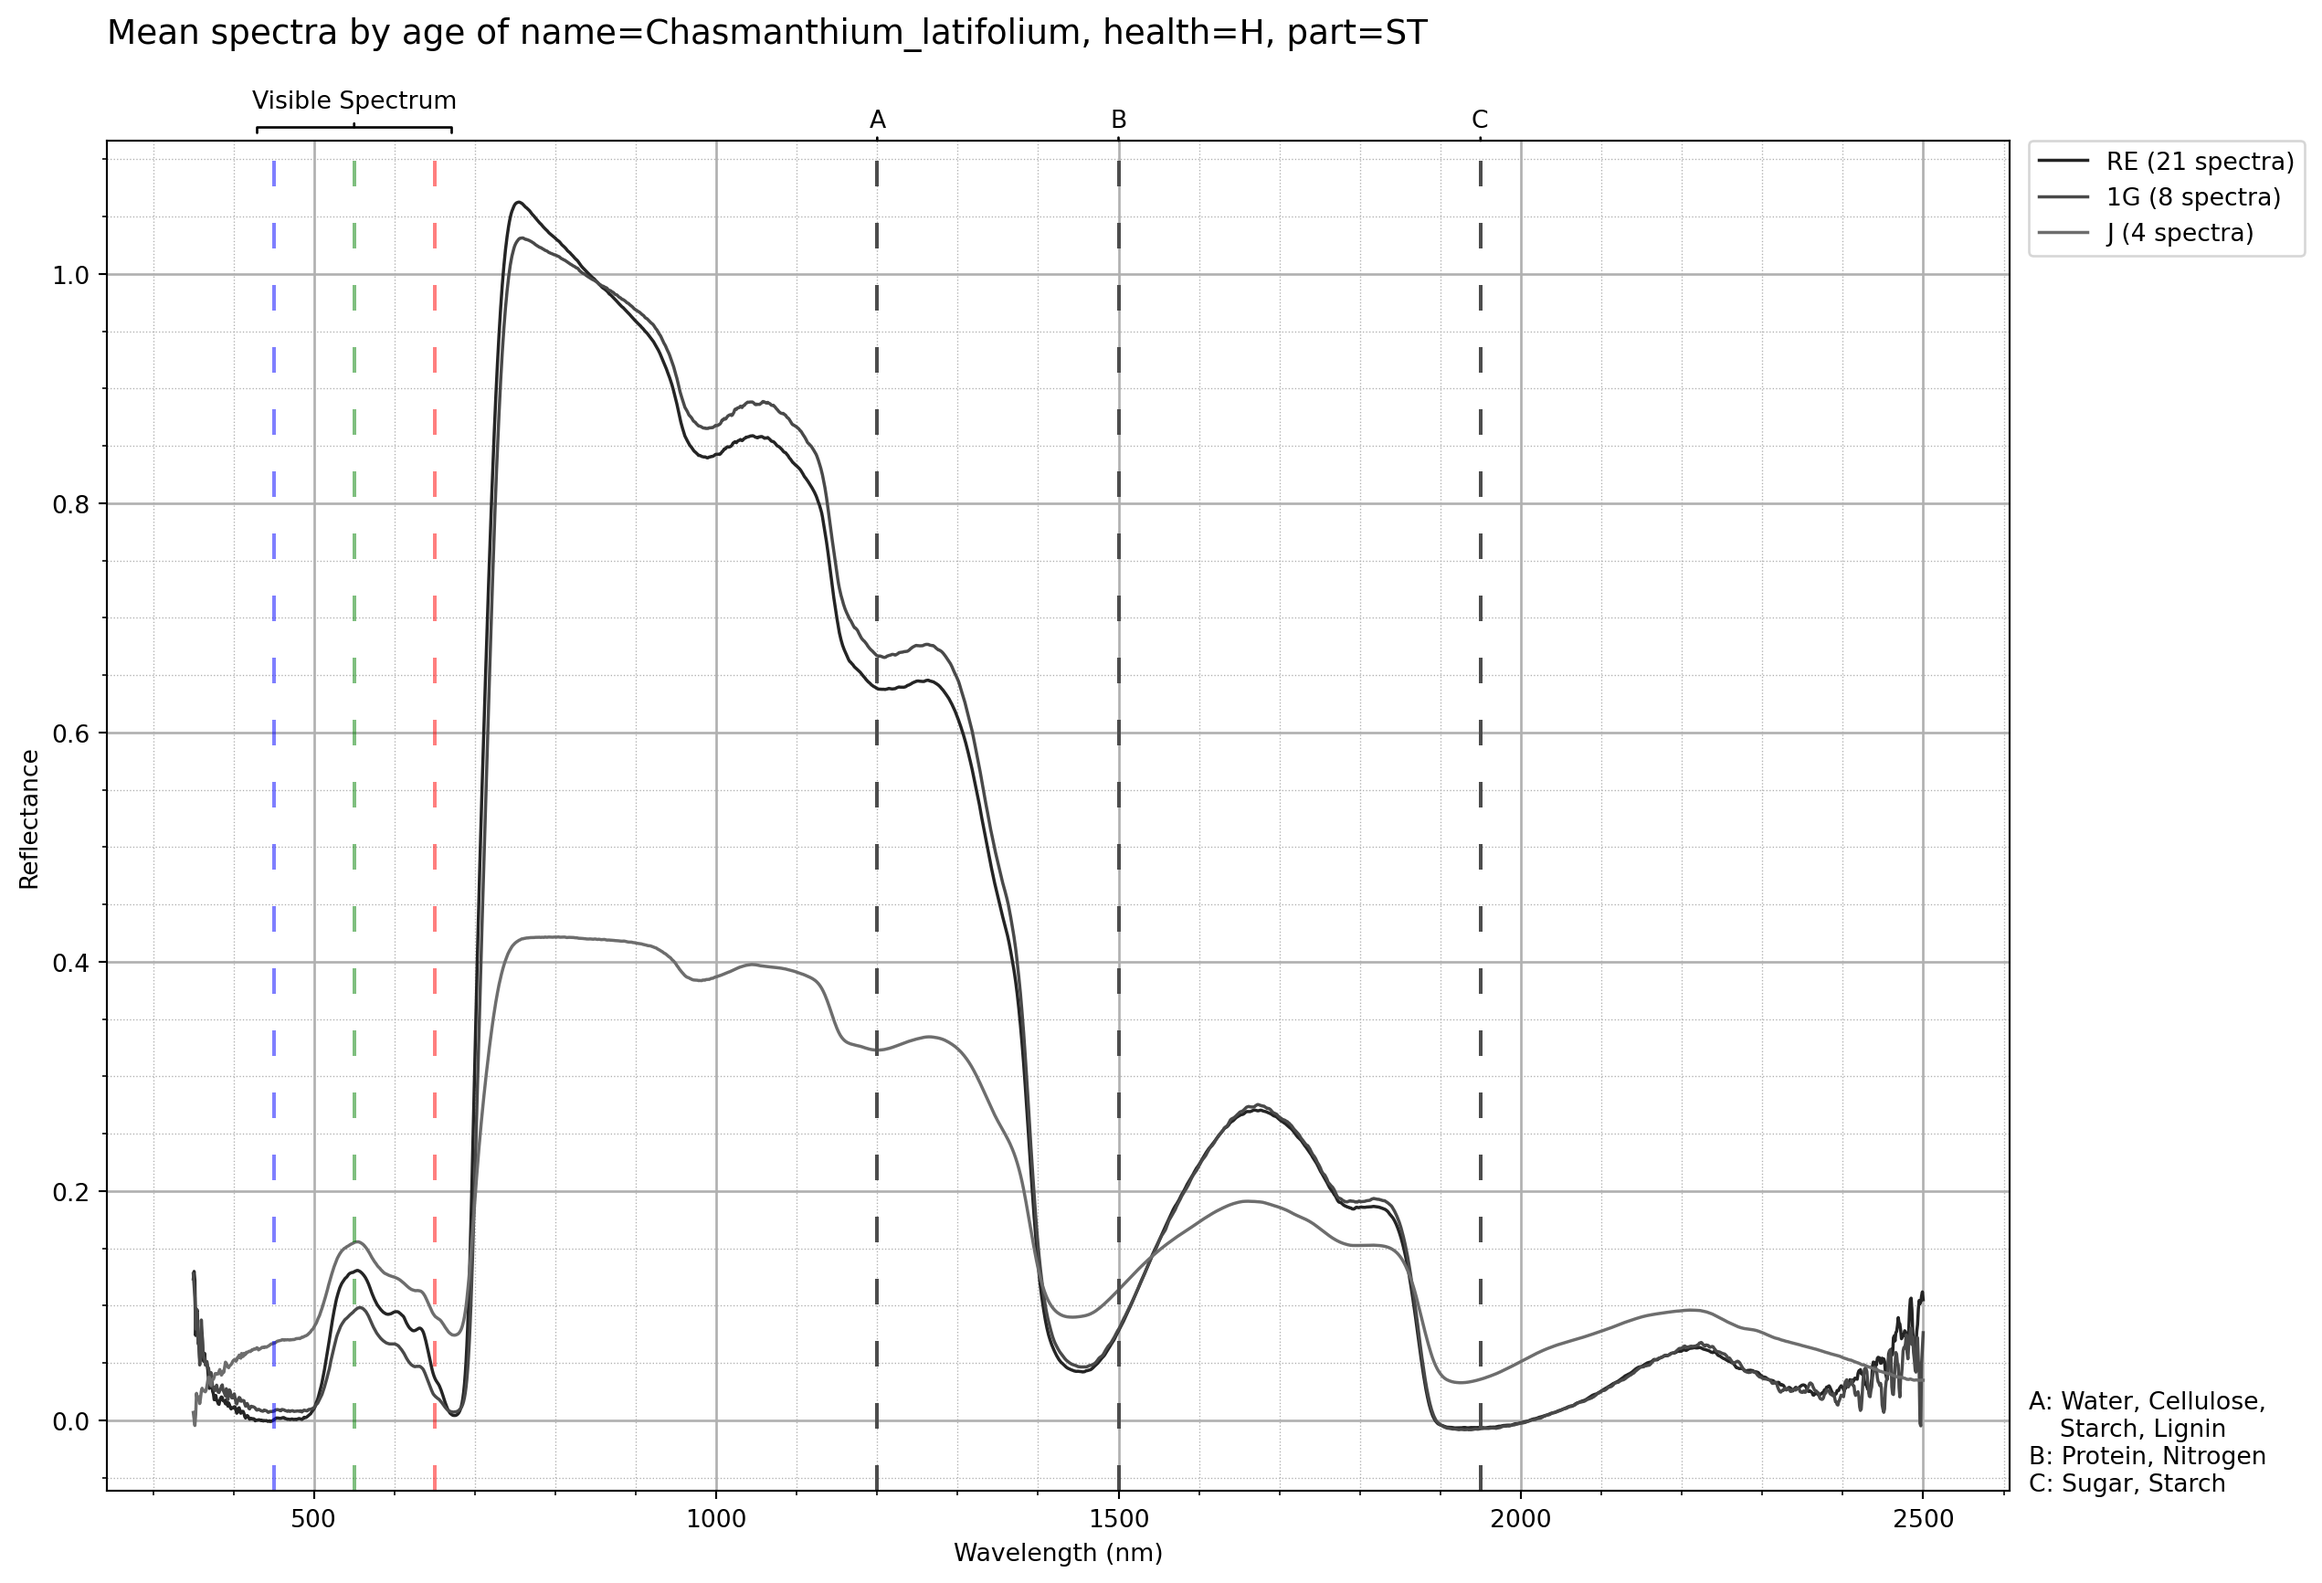
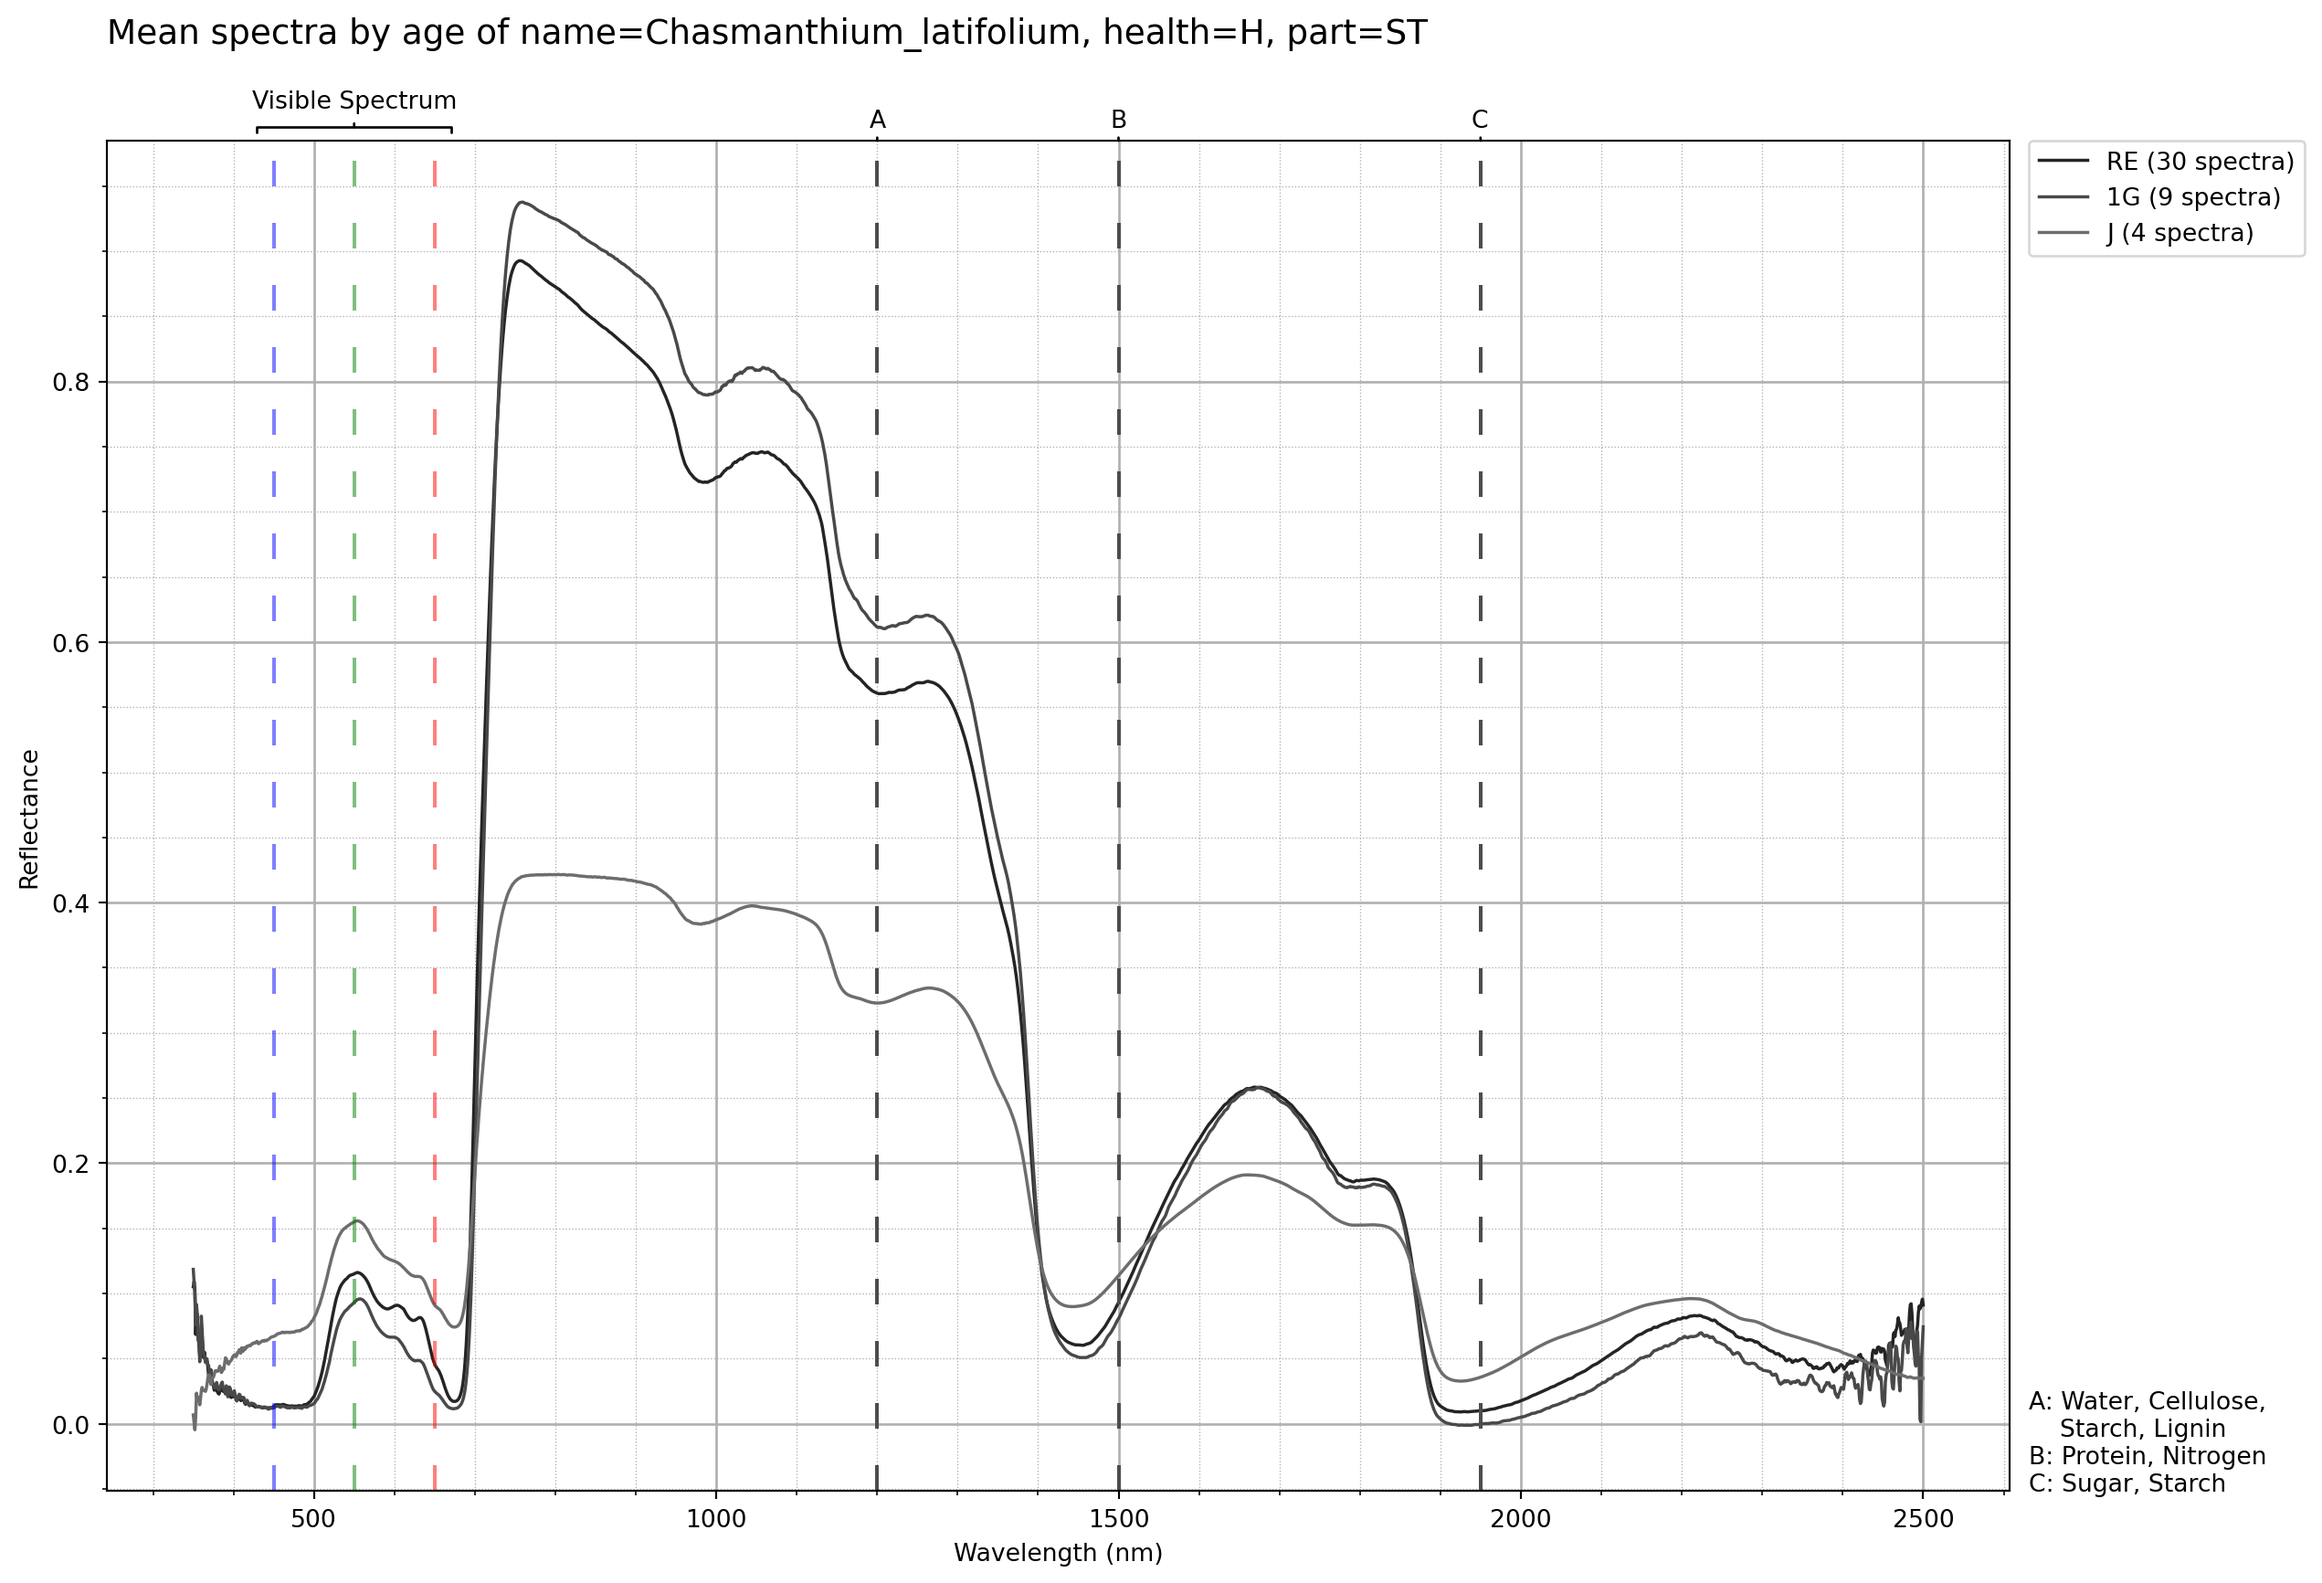
Built site for gh-pages

diff --git a/reports/Report1.html b/reports/Report1.html
@@ -152,7 +152,7 @@ ul.task-list li input[type="checkbox"] {
 
 <section id="spectral-library" class="level2 page-columns page-full">
 <h2 class="anchored" data-anchor-id="spectral-library">Spectral Library</h2>
-<p>Number of Spectra: 3158</p>
+<p>Number of Spectra: 3459</p>
 <div id="cell-table1" class="cell page-columns page-full" data-execution_count="9">
 <div id="table1" class="cell-output cell-output-display column-page-inset-right" data-execution_count="9">
 <div>
@@ -193,23 +193,23 @@ ul.task-list li input[type="checkbox"] {
 <tbody>
 <tr class="odd">
 <td data-quarto-table-cell-role="th">Ammophila_breviligulata</td>
-<td>254</td>
+<td>287</td>
 <td>0</td>
 <td>0</td>
-<td>202</td>
+<td>210</td>
 <td>0</td>
-<td>22</td>
+<td>35</td>
 <td>0</td>
 <td>0</td>
-<td>0</td>
+<td>12</td>
 <td>5</td>
 <td>3</td>
-<td>185</td>
+<td>218</td>
 <td>61</td>
 <td>0</td>
 <td>0</td>
 <td>28</td>
-<td>71</td>
+<td>104</td>
 <td>0</td>
 <td>4</td>
 <td>0</td>
@@ -280,23 +280,23 @@ ul.task-list li input[type="checkbox"] {
 </tr>
 <tr class="even">
 <td data-quarto-table-cell-role="th">Chasmanthium_latifolium</td>
-<td>285</td>
+<td>343</td>
 <td>0</td>
 <td>6</td>
-<td>157</td>
+<td>170</td>
 <td>0</td>
-<td>44</td>
+<td>79</td>
 <td>31</td>
 <td>0</td>
-<td>33</td>
-<td>132</td>
+<td>43</td>
+<td>160</td>
 <td>11</td>
 <td>48</td>
 <td>4</td>
 <td>13</td>
-<td>59</td>
+<td>89</td>
 <td>30</td>
-<td>212</td>
+<td>270</td>
 <td>0</td>
 <td>0</td>
 <td>0</td>
@@ -309,23 +309,23 @@ ul.task-list li input[type="checkbox"] {
 </tr>
 <tr class="odd">
 <td data-quarto-table-cell-role="th">Ilex_vomitoria</td>
-<td>123</td>
+<td>170</td>
 <td>0</td>
 <td>0</td>
-<td>47</td>
-<td>16</td>
-<td>47</td>
+<td>58</td>
+<td>29</td>
+<td>60</td>
 <td>0</td>
 <td>0</td>
-<td>13</td>
+<td>23</td>
 <td>0</td>
 <td>0</td>
-<td>65</td>
+<td>112</td>
 <td>7</td>
 <td>6</td>
 <td>3</td>
 <td>7</td>
-<td>74</td>
+<td>121</td>
 <td>0</td>
 <td>0</td>
 <td>0</td>
@@ -396,23 +396,23 @@ ul.task-list li input[type="checkbox"] {
 </tr>
 <tr class="even">
 <td data-quarto-table-cell-role="th">Panicum_amarum</td>
-<td>386</td>
-<td>18</td>
+<td>452</td>
+<td>26</td>
 <td>0</td>
-<td>278</td>
+<td>288</td>
 <td>0</td>
-<td>48</td>
+<td>82</td>
 <td>11</td>
 <td>0</td>
-<td>27</td>
-<td>46</td>
+<td>41</td>
+<td>57</td>
 <td>0</td>
-<td>251</td>
+<td>306</td>
 <td>24</td>
 <td>54</td>
 <td>11</td>
 <td>31</td>
-<td>225</td>
+<td>291</td>
 <td>0</td>
 <td>0</td>
 <td>0</td>
@@ -420,57 +420,57 @@ ul.task-list li input[type="checkbox"] {
 <td>62</td>
 <td>64</td>
 <td>20</td>
-<td>50</td>
+<td>70</td>
 <td>17</td>
 </tr>
 <tr class="odd">
 <td data-quarto-table-cell-role="th">Panicum_virgatum</td>
-<td>420</td>
-<td>93</td>
+<td>464</td>
+<td>105</td>
 <td>0</td>
 <td>244</td>
 <td>0</td>
-<td>29</td>
-<td>38</td>
+<td>45</td>
+<td>46</td>
 <td>9</td>
-<td>3</td>
+<td>11</td>
 <td>16</td>
 <td>3</td>
-<td>326</td>
+<td>370</td>
 <td>15</td>
 <td>32</td>
 <td>7</td>
 <td>41</td>
-<td>165</td>
+<td>209</td>
 <td>0</td>
 <td>0</td>
 <td>0</td>
 <td>0</td>
 <td>122</td>
 <td>59</td>
-<td>0</td>
-<td>190</td>
+<td>12</td>
+<td>222</td>
 <td>0</td>
 </tr>
 <tr class="even">
 <td data-quarto-table-cell-role="th">Robinia_hispida</td>
-<td>184</td>
+<td>231</td>
 <td>0</td>
 <td>0</td>
-<td>75</td>
-<td>32</td>
-<td>33</td>
-<td>0</td>
-<td>0</td>
+<td>86</td>
+<td>43</td>
 <td>44</td>
+<td>0</td>
+<td>0</td>
+<td>58</td>
 <td>113</td>
 <td>0</td>
-<td>53</td>
+<td>100</td>
 <td>18</td>
 <td>0</td>
 <td>0</td>
 <td>13</td>
-<td>171</td>
+<td>218</td>
 <td>0</td>
 <td>0</td>
 <td>0</td>
@@ -483,12 +483,12 @@ ul.task-list li input[type="checkbox"] {
 </tr>
 <tr class="odd">
 <td data-quarto-table-cell-role="th">Rosa_rugosa</td>
-<td>134</td>
+<td>140</td>
 <td>0</td>
 <td>0</td>
 <td>113</td>
 <td>12</td>
-<td>0</td>
+<td>6</td>
 <td>0</td>
 <td>0</td>
 <td>9</td>
@@ -496,10 +496,10 @@ ul.task-list li input[type="checkbox"] {
 <td>0</td>
 <td>47</td>
 <td>3</td>
-<td>0</td>
+<td>6</td>
 <td>0</td>
 <td>3</td>
-<td>82</td>
+<td>88</td>
 <td>8</td>
 <td>0</td>
 <td>0</td>
@@ -619,7 +619,7 @@ ul.task-list li input[type="checkbox"] {
 <div class="cell-output cell-output-display page-columns page-full">
 <div class="page-columns page-full">
 <figure class="figure page-columns page-full">
-<p class="page-columns page-full"><img src="Report1_files/figure-html/cell-16-output-2.png" width="1250" height="867" class="figure-img column-page"></p>
+<p class="page-columns page-full"><img src="Report1_files/figure-html/cell-16-output-2.png" width="1258" height="867" class="figure-img column-page"></p>
 </figure>
 </div>
 </div>
@@ -633,7 +633,7 @@ ul.task-list li input[type="checkbox"] {
 <div class="cell-output cell-output-display page-columns page-full">
 <div class="page-columns page-full">
 <figure class="figure page-columns page-full">
-<p class="page-columns page-full"><img src="Report1_files/figure-html/cell-16-output-4.png" width="1265" height="867" class="figure-img column-page"></p>
+<p class="page-columns page-full"><img src="Report1_files/figure-html/cell-16-output-4.png" width="1257" height="867" class="figure-img column-page"></p>
 </figure>
 </div>
 </div>
